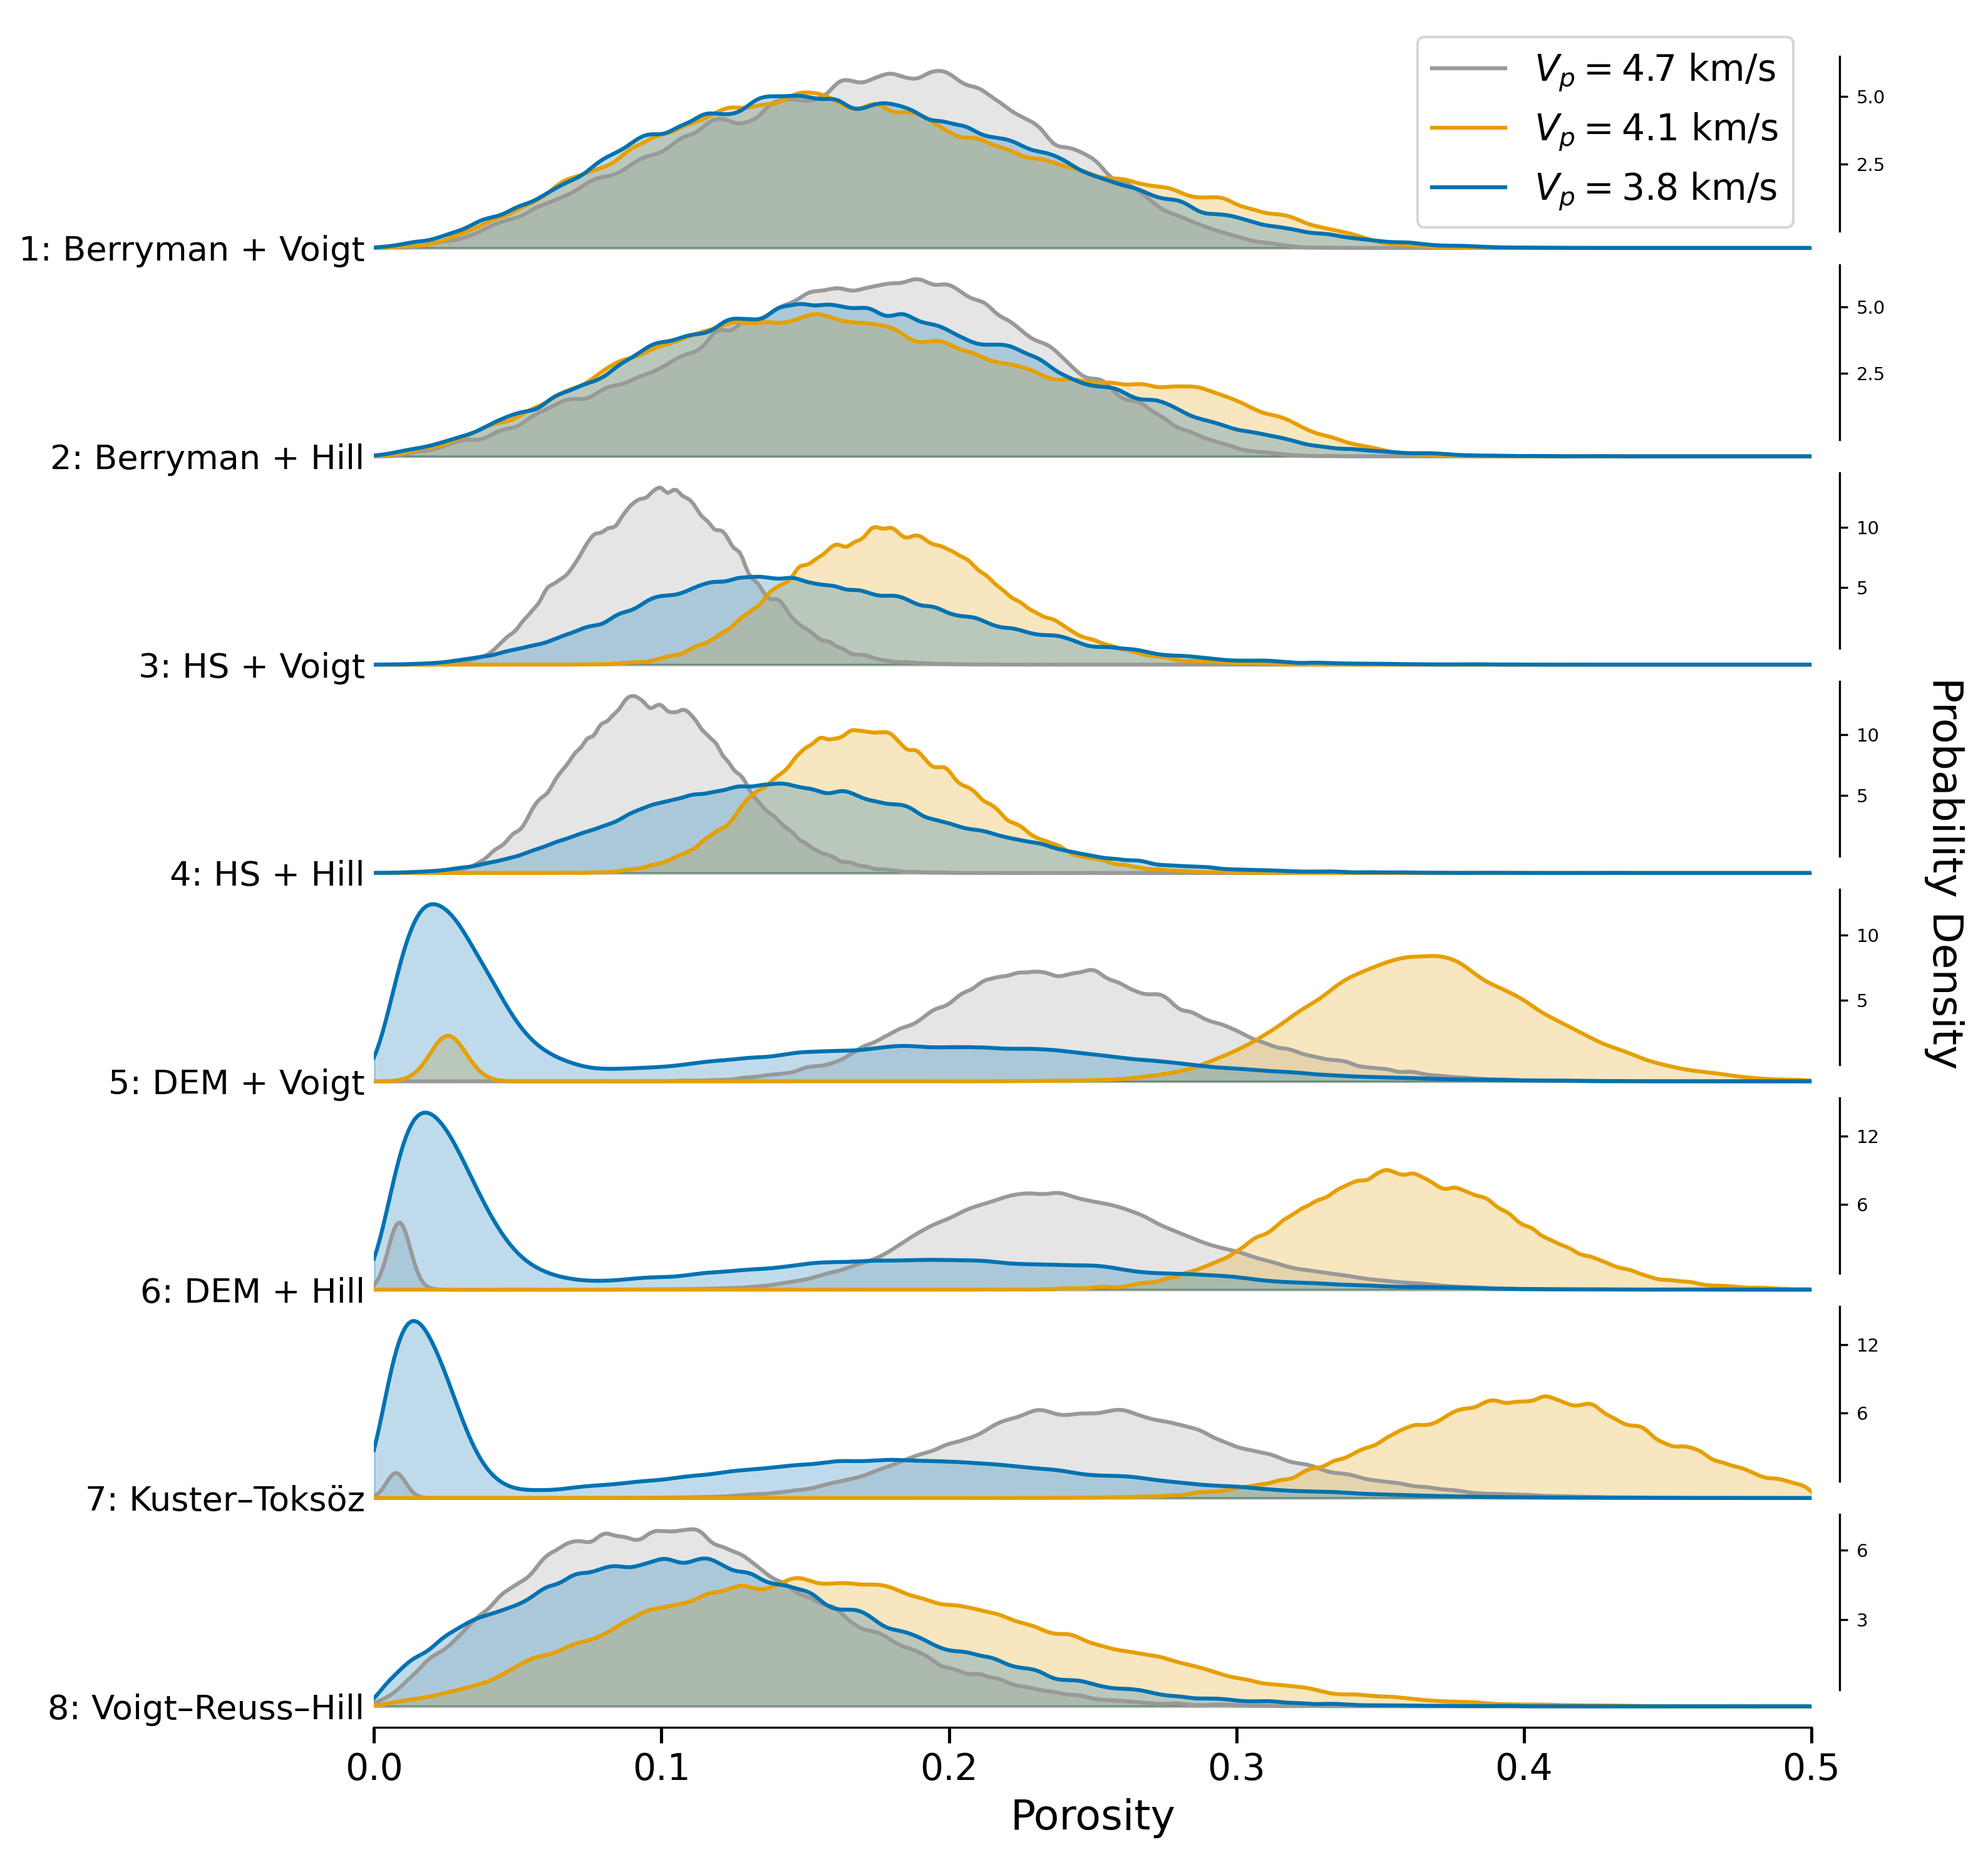
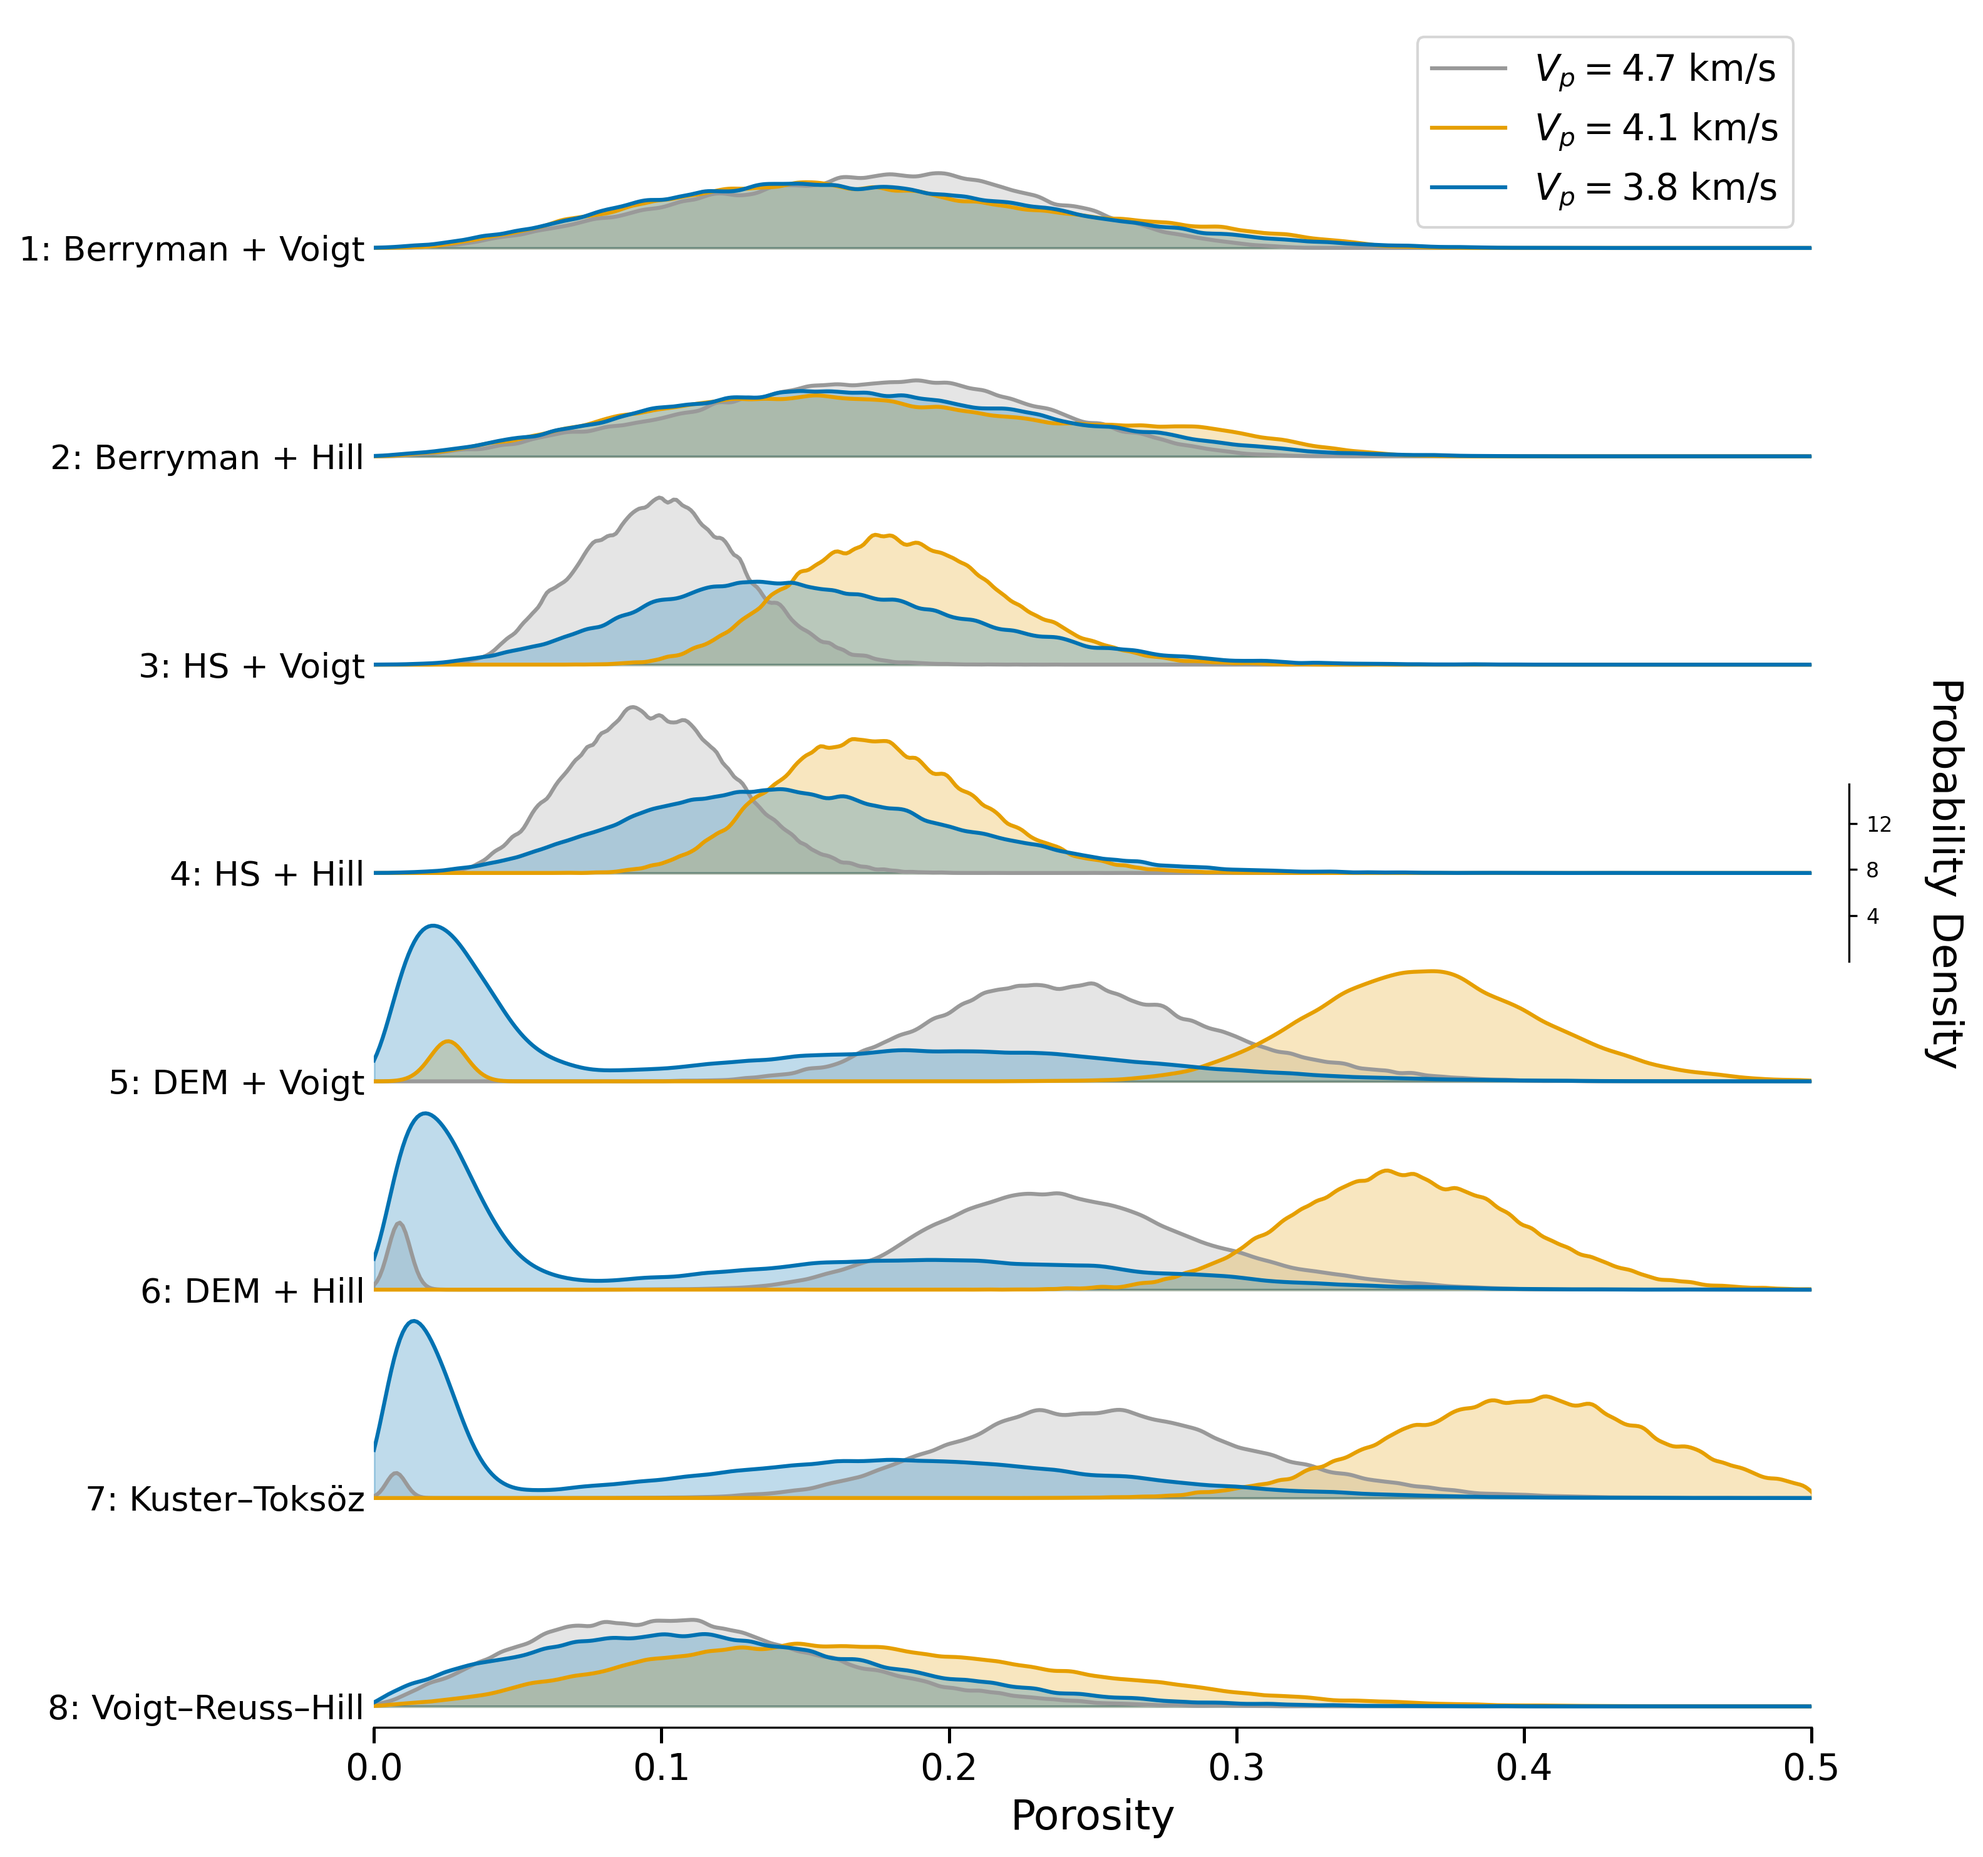
Common vertical scale on all ridgelines; relabel Wright estimate in legends
Ridgeline plots (porosity, saturation, thickness, binary, prior-sensitivity)
now share a single common vertical (probability-density) scale across rows
instead of per-row normalization, so peak heights are directly comparable;
the per-row right-side density axes are replaced by one shared calibrated axis.
Figure-1/2 legends relabel the Wright et al. (2024) marker from
"Peak-based mode" to "Wright (2024) estimate". Regenerates the committed
porosity/saturation/barplot figures.

diff --git a/plotting/make_thickness_ridgeline.py b/plotting/make_thickness_ridgeline.py
@@ -47,15 +47,18 @@ for idx, (model_key, out_sub, _) in enumerate(MODELS):
 n_rows = len(MODELS)
 row_height = 1.0        # vertical spacing between rows
 
+# Single common vertical scale shared by every theory row
+global_max = max(row_max.values())
+
 fig, ax = plt.subplots(figsize=(10, 10))
 
 for idx in range(n_rows - 1, -1, -1):  # draw bottom rows first
     baseline = idx * row_height
     model_key, out_sub, label = MODELS[n_rows - 1 - idx]  # theory 1 at top
 
-    # Per-row scaling so each ridge fills its row
+    # Common vertical scale so ridge heights are comparable across theories
     theory_idx = n_rows - 1 - idx
-    scale = row_height * 0.85 / row_max[theory_idx]
+    scale = row_height * 0.85 / global_max
 
     # Draw in reverse order so first case is on top
     for case_suffix, case_label, color in reversed(CASES):
@@ -93,35 +96,28 @@ from matplotlib.lines import Line2D
 handles, labels = ax.get_legend_handles_labels()
 handles.append(Line2D([0], [0], marker='*', color='w', markerfacecolor='red',
                        markeredgecolor='black', markeredgewidth=0.8, markersize=18,
-                       label='Peak-based mode'))
-labels.append('Peak-based mode')
+                       label='Wright (2024) estimate'))
+labels.append('Wright (2024) estimate')
 ax.legend(handles, labels, loc='center right', fontsize=14, frameon=True)
 
 plt.tight_layout()
 
-# Add a right-side vertical axis for each row showing actual density scale
+# Single shared density axis on the right: all rows use one common vertical
+# scale, so one calibrated ridge-height bar (0 -> global_max) serves every row.
 from matplotlib.ticker import MaxNLocator
 pos = ax.get_position()
 ylim = ax.get_ylim()
 data_range = ylim[1] - ylim[0]
-for idx in range(n_rows):
-    theory_idx = n_rows - 1 - idx
-    baseline = idx * row_height
-    # Convert data coords to figure coords
-    fig_y0 = pos.y0 + (baseline - ylim[0]) / data_range * (pos.y1 - pos.y0)
-    fig_y1 = pos.y0 + (baseline + row_height - ylim[0]) / data_range * (pos.y1 - pos.y0)
-    gap = (fig_y1 - fig_y0) * 0.08
-    fig_y0 += gap
-    fig_y1 -= gap
-    ax_r = fig.add_axes([pos.x1, fig_y0, 0.015, fig_y1 - fig_y0])
-    ax_r.set_ylim(0, row_max[theory_idx])
-    ax_r.set_xticks([])
-    ax_r.yaxis.tick_right()
-    ax_r.yaxis.set_major_locator(MaxNLocator(nbins=3, prune='both'))
-    ax_r.tick_params(axis='y', labelsize=7, length=3, width=0.8)
-    ax_r.spines['top'].set_visible(False)
-    ax_r.spines['bottom'].set_visible(False)
-    ax_r.spines['left'].set_visible(False)
+bar_fig_height = (row_height * 0.85) / data_range * (pos.y1 - pos.y0)
+fig_yc = (pos.y0 + pos.y1) / 2
+ax_r = fig.add_axes([pos.x1 + 0.005, fig_yc - bar_fig_height / 2, 0.015, bar_fig_height])
+ax_r.set_ylim(0, global_max)
+ax_r.set_xticks([])
+ax_r.yaxis.tick_right()
+ax_r.yaxis.set_major_locator(MaxNLocator(nbins=4, prune='both'))
+ax_r.tick_params(axis='y', labelsize=8, length=3, width=0.8)
+for s in ('top', 'bottom', 'left'):
+    ax_r.spines[s].set_visible(False)
 
 # Right-side axis label
 fig.text(pos.x1 + 0.06, (pos.y0 + pos.y1) / 2, "Probability Density",

diff --git a/plotting/make_porosity_ridgeline.py b/plotting/make_porosity_ridgeline.py
@@ -54,13 +54,16 @@ for idx, (model_key, out_sub, prefix, fallback_col, _) in enumerate(MODELS):
 n_rows = len(MODELS)
 row_height = 1.0
 
+# Single common vertical scale shared by every theory row
+global_max = max(row_max.values())
+
 fig, ax = plt.subplots(figsize=(10, 10))
 
 for idx in range(n_rows - 1, -1, -1):  # draw bottom rows first
     baseline = idx * row_height
     theory_idx = n_rows - 1 - idx  # theory 1 at top
 
-    scale = row_height * 0.85 / row_max[theory_idx]
+    scale = row_height * 0.85 / global_max
 
     for case_suffix, case_label, color in reversed(CASES):
         density = all_densities[(theory_idx, case_suffix)]
@@ -92,28 +95,22 @@ ax.legend(handles, labels, loc='upper right', fontsize=14, frameon=True)
 
 plt.tight_layout()
 
-# Add a right-side vertical axis for each row showing actual density scale
+# Single shared density axis on the right: all rows use one common vertical
+# scale, so one calibrated ridge-height bar (0 -> global_max) serves every row.
 from matplotlib.ticker import MaxNLocator
 pos = ax.get_position()
 ylim = ax.get_ylim()
 data_range = ylim[1] - ylim[0]
-for idx in range(n_rows):
-    theory_idx = n_rows - 1 - idx
-    baseline = idx * row_height
-    fig_y0 = pos.y0 + (baseline - ylim[0]) / data_range * (pos.y1 - pos.y0)
-    fig_y1 = pos.y0 + (baseline + row_height - ylim[0]) / data_range * (pos.y1 - pos.y0)
-    gap = (fig_y1 - fig_y0) * 0.08
-    fig_y0 += gap
-    fig_y1 -= gap
-    ax_r = fig.add_axes([pos.x1, fig_y0, 0.015, fig_y1 - fig_y0])
-    ax_r.set_ylim(0, row_max[theory_idx])
-    ax_r.set_xticks([])
-    ax_r.yaxis.tick_right()
-    ax_r.yaxis.set_major_locator(MaxNLocator(nbins=3, prune='both'))
-    ax_r.tick_params(axis='y', labelsize=7, length=3, width=0.8)
-    ax_r.spines['top'].set_visible(False)
-    ax_r.spines['bottom'].set_visible(False)
-    ax_r.spines['left'].set_visible(False)
+bar_fig_height = (row_height * 0.85) / data_range * (pos.y1 - pos.y0)
+fig_yc = (pos.y0 + pos.y1) / 2
+ax_r = fig.add_axes([pos.x1 + 0.005, fig_yc - bar_fig_height / 2, 0.015, bar_fig_height])
+ax_r.set_ylim(0, global_max)
+ax_r.set_xticks([])
+ax_r.yaxis.tick_right()
+ax_r.yaxis.set_major_locator(MaxNLocator(nbins=4, prune='both'))
+ax_r.tick_params(axis='y', labelsize=8, length=3, width=0.8)
+for s in ('top', 'bottom', 'left'):
+    ax_r.spines[s].set_visible(False)
 
 # Right-side axis label
 fig.text(pos.x1 + 0.06, (pos.y0 + pos.y1) / 2, "Probability Density",

diff --git a/plotting/make_saturation_ridgeline.py b/plotting/make_saturation_ridgeline.py
@@ -54,13 +54,16 @@ for idx, (model_key, out_sub, prefix, fallback_col, _) in enumerate(MODELS):
 n_rows = len(MODELS)
 row_height = 1.0
 
+# Single common vertical scale shared by every theory row
+global_max = max(row_max.values())
+
 fig, ax = plt.subplots(figsize=(10, 10))
 
 for idx in range(n_rows - 1, -1, -1):  # draw bottom rows first
     baseline = idx * row_height
     theory_idx = n_rows - 1 - idx  # theory 1 at top
 
-    scale = row_height * 0.85 / row_max[theory_idx]
+    scale = row_height * 0.85 / global_max
 
     for case_suffix, case_label, color in reversed(CASES):
         density = all_densities[(theory_idx, case_suffix)]
@@ -92,28 +95,22 @@ ax.legend(handles, labels, loc='upper right', fontsize=14, frameon=True)
 
 plt.tight_layout()
 
-# Add a right-side vertical axis for each row showing actual density scale
+# Single shared density axis on the right: all rows use one common vertical
+# scale, so one calibrated ridge-height bar (0 -> global_max) serves every row.
 from matplotlib.ticker import MaxNLocator
 pos = ax.get_position()
 ylim = ax.get_ylim()
 data_range = ylim[1] - ylim[0]
-for idx in range(n_rows):
-    theory_idx = n_rows - 1 - idx
-    baseline = idx * row_height
-    fig_y0 = pos.y0 + (baseline - ylim[0]) / data_range * (pos.y1 - pos.y0)
-    fig_y1 = pos.y0 + (baseline + row_height - ylim[0]) / data_range * (pos.y1 - pos.y0)
-    gap = (fig_y1 - fig_y0) * 0.08
-    fig_y0 += gap
-    fig_y1 -= gap
-    ax_r = fig.add_axes([pos.x1, fig_y0, 0.015, fig_y1 - fig_y0])
-    ax_r.set_ylim(0, row_max[theory_idx])
-    ax_r.set_xticks([])
-    ax_r.yaxis.tick_right()
-    ax_r.yaxis.set_major_locator(MaxNLocator(nbins=3, prune='both'))
-    ax_r.tick_params(axis='y', labelsize=7, length=3, width=0.8)
-    ax_r.spines['top'].set_visible(False)
-    ax_r.spines['bottom'].set_visible(False)
-    ax_r.spines['left'].set_visible(False)
+bar_fig_height = (row_height * 0.85) / data_range * (pos.y1 - pos.y0)
+fig_yc = (pos.y0 + pos.y1) / 2
+ax_r = fig.add_axes([pos.x1 + 0.005, fig_yc - bar_fig_height / 2, 0.015, bar_fig_height])
+ax_r.set_ylim(0, global_max)
+ax_r.set_xticks([])
+ax_r.yaxis.tick_right()
+ax_r.yaxis.set_major_locator(MaxNLocator(nbins=4, prune='both'))
+ax_r.tick_params(axis='y', labelsize=8, length=3, width=0.8)
+for s in ('top', 'bottom', 'left'):
+    ax_r.spines[s].set_visible(False)
 
 # Right-side axis label
 fig.text(pos.x1 + 0.06, (pos.y0 + pos.y1) / 2, "Probability Density",

diff --git a/plotting/make_prior_sensitivity_ridgeline.py b/plotting/make_prior_sensitivity_ridgeline.py
@@ -85,14 +85,15 @@ for i, (label, color, cont_npy, bin_wet_npy, lzw, lzd) in enumerate(SETS):
 # (P(dry)/BIN_WIDTH), which typically dominates the wet KDE peak.
 bin_row_max  = max(c["density"].max() for c in binary_curves.values())
 cont_row_max = max(d.max() for d in cont_curves.values())
+# Single common vertical scale shared by both panels and every row
+global_max = max(bin_row_max, cont_row_max)
 
 fig, (ax_b, ax_c) = plt.subplots(1, 2, figsize=(14, 5.5), sharey=True)
 
 def draw(ax, top_density, top_kind):
     """top_density is dict: i -> dict(density, p_wet, p_dry)  if kind='binary'
                           : i -> ndarray (density)            if kind='cont'"""
-    scale_max = bin_row_max if top_kind == "binary" else cont_row_max
-    scale = row_height * 0.85 / max(scale_max, 1e-12)
+    scale = row_height * 0.85 / max(global_max, 1e-12)
 
     for i_top in range(n_sets - 1, -1, -1):  # ridge 1 at top
         baseline = (n_sets - 1 - i_top) * row_height  # top-down

diff --git a/plotting/make_thickness_barplot.py b/plotting/make_thickness_barplot.py
@@ -77,7 +77,7 @@ WRIGHT_MODE = 1.248
 ax1 = axes[1]
 ax1.plot(WRIGHT_MODE, y[0] + height, marker='*', color='red', markersize=18,
          markeredgecolor='black', markeredgewidth=0.8, zorder=10,
-         label='Peak-based mode')
+         label='Wright (2024) estimate')
 
 # Build legend manually
 from matplotlib.patches import Patch
@@ -88,7 +88,7 @@ legend_elements = [
     Patch(facecolor=colors[2], edgecolor='black', linewidth=0.5, label='Mean'),
     Line2D([0], [0], marker='*', color='w', markerfacecolor='red',
            markeredgecolor='black', markeredgewidth=0.8, markersize=18,
-           label='Peak-based mode'),
+           label='Wright (2024) estimate'),
 ]
 axes[1].legend(handles=legend_elements, fontsize=14, loc='center right')
 

diff --git a/plotting/make_thickness_ridgeline_binary.py b/plotting/make_thickness_ridgeline_binary.py
@@ -83,6 +83,9 @@ for idx, (model_key, _) in enumerate(MODELS):
 n_rows = len(MODELS)
 row_height = 1.0
 
+# Single common vertical scale shared by every theory row
+global_max = max(row_max.values())
+
 fig, ax = plt.subplots(figsize=(11, 10))
 
 # Reserve space for the dry spike as a fraction of the row height
@@ -93,7 +96,7 @@ for idx in range(n_rows - 1, -1, -1):
     baseline = idx * row_height
     theory_idx = n_rows - 1 - idx
     model_key, label = MODELS[theory_idx]
-    scale = row_height * 0.85 / max(row_max[theory_idx], 1e-12)
+    scale = row_height * 0.85 / max(global_max, 1e-12)
 
     for case_suffix, case_label, color in reversed(CASES):
         c = all_curves[(theory_idx, case_suffix)]
